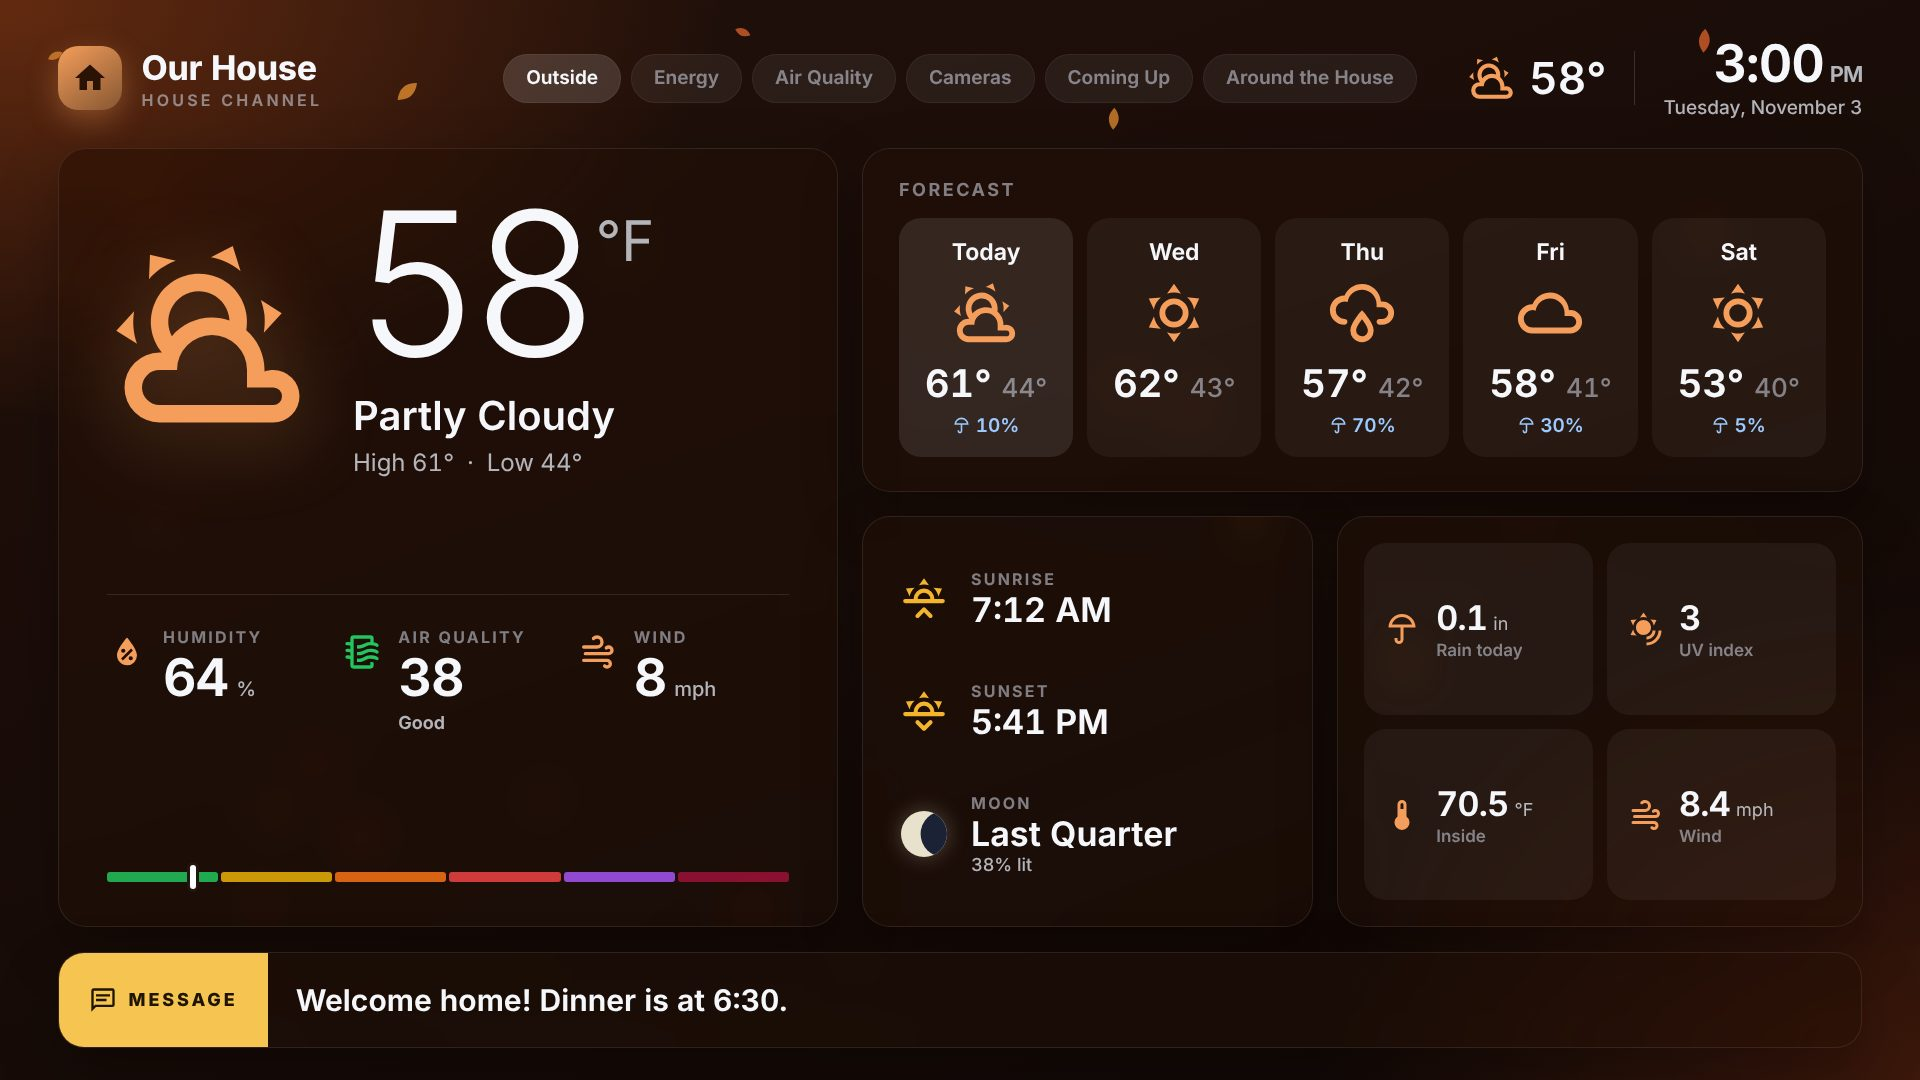
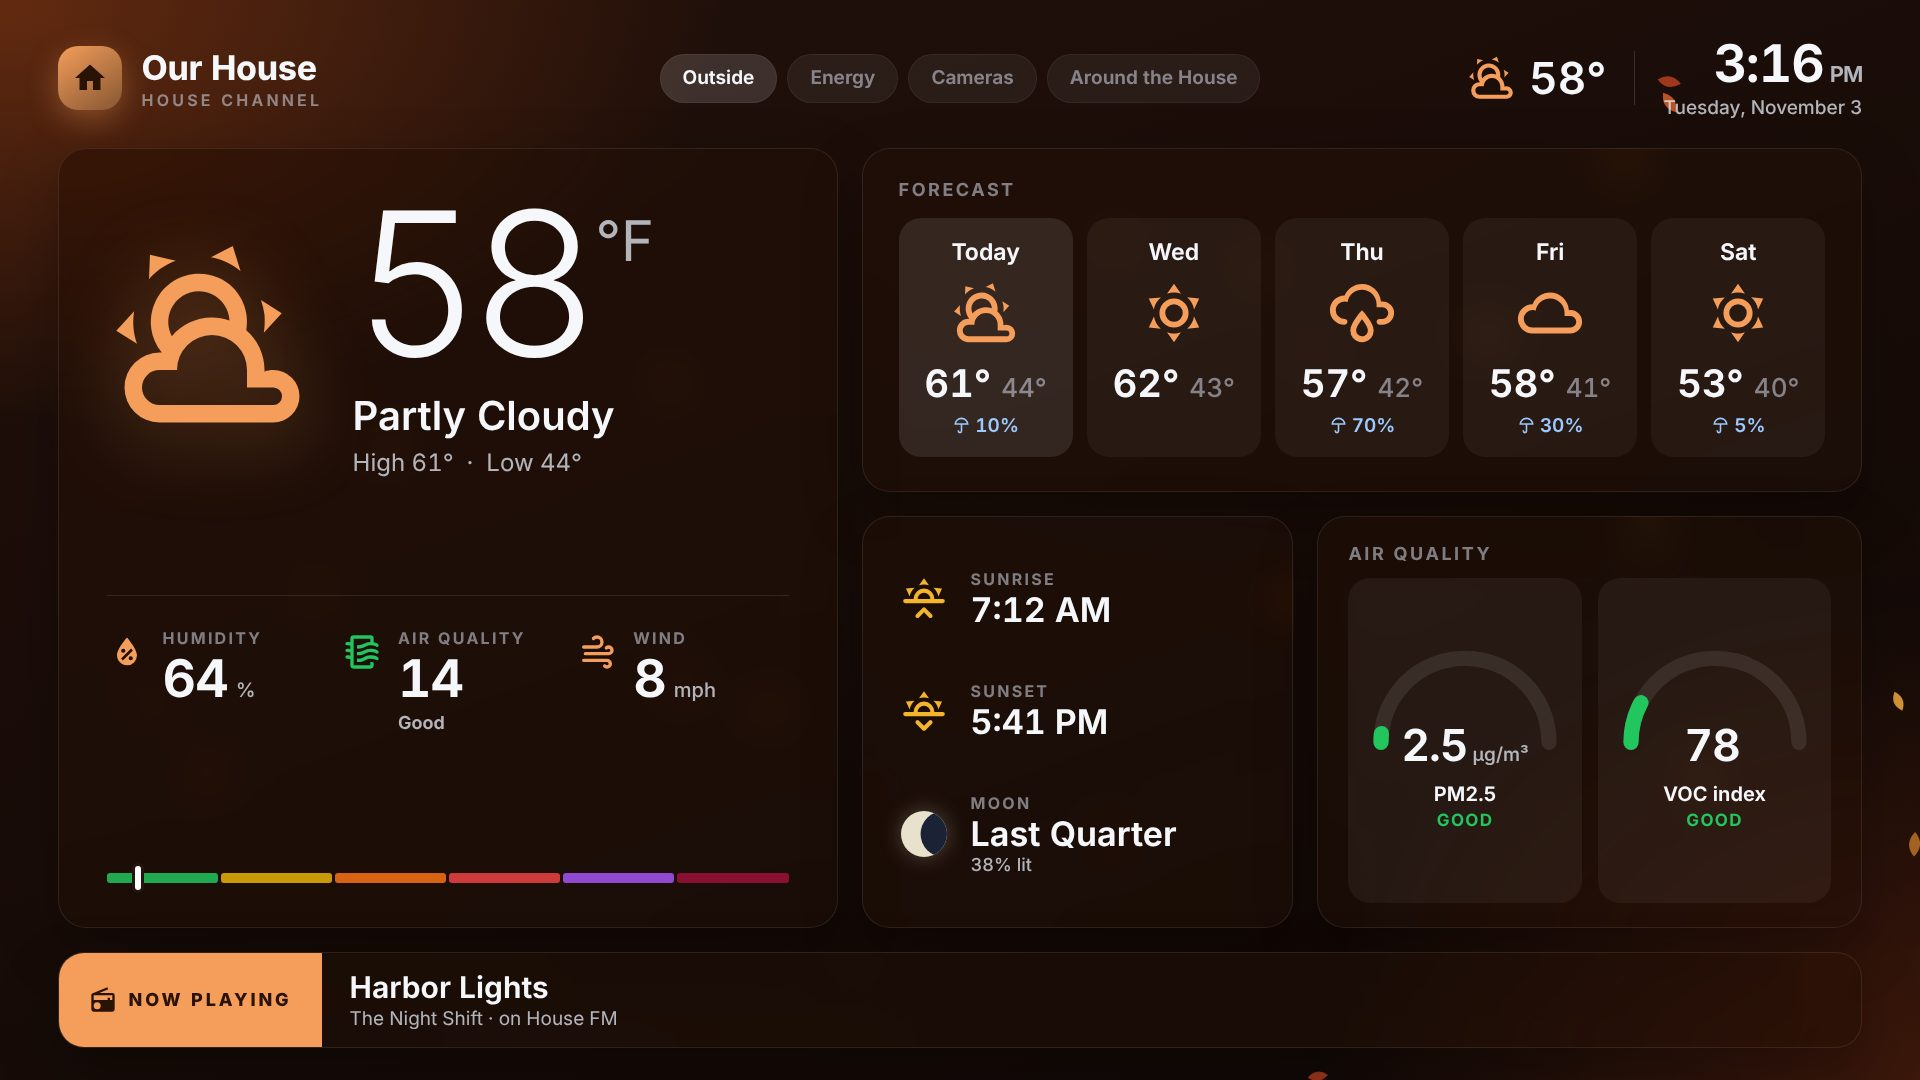
Air quality gauges on the Outside screen; doorbell event pop-ups
- Weather screen takes air_gauges (up to 4), e.g. PM2.5 and VOC index,
  reusing the air screen's gauges; the separate air screen stays optional
- Interrupts support to: changed (for event entities such as doorbells),
  ignore the jump back from unavailable after an HA restart, and accept
  optional when: conditions
- Example config and README updated

Claude-Session: https://claude.ai/code/session_01UEJktRrvhqTk3947AFYBR7

diff --git a/web/js/screens/weather.js b/web/js/screens/weather.js
@@ -1,6 +1,7 @@
 import { h, icon, setIcon, weatherIcon, weatherLabel, num, isNum, aqiInfo, moonPhase,
   fmtTime, fmtDate } from "../util.js";
 import { tileGrid } from "./tiles.js";
+import { gauge } from "./air.js";
 
 export function create(cfg, ctx) {
   const ref = {};
@@ -25,6 +26,7 @@ export function create(cfg, ctx) {
   ref.aqiMarker = h("span.aqi-marker");
   ref.aqiBar.append(ref.aqiMarker);
   const tiles = tileGrid(cfg.tiles || [], "tiles-compact");
+  const gauges = (cfg.air_gauges || []).map(gauge);
 
   const el = h("section.screen.screen-weather",
     h("div.panel.hero",
@@ -45,6 +47,8 @@ export function create(cfg, ctx) {
           h("div.sm-item", icon("sunset", "sm-icon"), h("div", h("span.metric-label", "Sunset"), ref.sunset)),
           h("div.sm-item", ref.moonIcon, h("div", h("span.metric-label", "Moon"), ref.moonName, ref.moonSub)),
         ),
+        gauges.length ? h(`div.panel.weather-air.n${gauges.length}`,
+          h("div.panel-title", "Air quality"), h("div.weather-air-grid", gauges.map((g) => g.el))) : null,
         (cfg.tiles || []).length ? h("div.panel.weather-tiles", tiles.el) : null,
       ),
     ),
@@ -112,6 +116,7 @@ export function create(cfg, ctx) {
       }));
     }
     tiles.update(c);
+    gauges.forEach((g) => g.update(c));
   }
 
   return { el, update };

diff --git a/web/css/app.css b/web/css/app.css
@@ -195,6 +195,17 @@ body.has-alert #interrupt { bottom: calc(var(--safe-y) + var(--lower-h) + var(--
   background: #1b2236; transform: translateX(var(--moon-off, 0px));
 }
 .weather-tiles { flex: 1.25; padding: 26px; }
+.weather-air { flex: 1.35; padding: 26px 30px 24px; display: flex; flex-direction: column; min-width: 0; }
+.weather-air-grid { flex: 1; display: grid; grid-auto-flow: column; grid-auto-columns: minmax(0, 1fr); gap: 16px; margin-top: 14px; }
+.weather-air.n3 .weather-air-grid, .weather-air.n4 .weather-air-grid { grid-auto-flow: row; grid-template-columns: 1fr 1fr; }
+.weather-air .gauge { padding: 10px 12px 16px; }
+.weather-air .g-svg { width: 210px; }
+.weather-air .g-value { font-size: 44px; }
+.weather-air .g-readout { margin-top: -40px; }
+.weather-air .g-name { font-size: 20px; margin-top: 10px; }
+.weather-air.n3 .g-svg, .weather-air.n4 .g-svg { width: 130px; }
+.weather-air.n3 .g-value, .weather-air.n4 .g-value { font-size: 30px; }
+.weather-air.n3 .g-readout, .weather-air.n4 .g-readout { margin-top: -26px; }
 
 /* ---------------------------------------------------------------- tiles */
 .tile-grid { display: grid; gap: 18px; grid-template-columns: repeat(min(var(--count), 4), minmax(0, 1fr)); }

diff --git a/web/js/screens/air.js b/web/js/screens/air.js
@@ -18,7 +18,7 @@ const KINDS = {
 const R = 88, CX = 110, CY = 104, LEN = Math.PI * R;
 const arc = `M${CX - R},${CY} A${R},${R} 0 0 1 ${CX + R},${CY}`;
 
-function gauge(g) {
+export function gauge(g) {
   const kind = KINDS[g.kind] || KINDS.other;
   const ref = {
     value: h("span.g-value"), unit: h("span.g-unit"), level: h("div.g-level"),

diff --git a/tests/test_core.py b/tests/test_core.py
@@ -4,6 +4,7 @@ from zoneinfo import ZoneInfo
 
 from housetv import conditions
 from housetv.config import load, normalise, watched_entities
+from housetv.hub import Hub
 from housetv.energy import stats_from_prefs, summarise
 from housetv.themes import scheduled_theme
 
@@ -14,7 +15,8 @@ def test_example_config_loads():
     cfg = load(ROOT / "config" / "config.example.yaml")
     types = [s["type"] for s in cfg["screens"]]
     assert "calendar" not in types  # disabled in the example
-    assert types[:3] == ["weather", "energy", "air"]
+    assert types[:3] == ["weather", "energy", "cameras"]
+    assert [g["kind"] for g in cfg["screens"][0]["air_gauges"]] == ["pm25", "voc"]
     ids = watched_entities(cfg)
     assert "sensor.pv_power" in ids and "sensor.outdoor_voc" in ids and "sun.sun" in ids
 
@@ -84,3 +86,18 @@ def test_energy_prefs_and_summary():
     assert out["hourly"]["home"][12] == 2.0      # 5 solar - 2 export - 1 charge
     assert out["totals"]["home"] == round(1.0 + 2.0 + 0.4 + 0.5, 2)
     assert out["totals"]["self_powered"] == round(100 * (1 - 1.0 / 3.9))
+
+
+def test_interrupt_triggers():
+    fake = type("H", (), {"states": {"sun.sun": {"state": "below_horizon", "attributes": {}}}})()
+    fires = lambda item, new, old: Hub._interrupt_fires(fake, item, {"state": new}, old and {"state": old})  # noqa: E731
+    on = {"entity": "binary_sensor.bell"}
+    assert fires(on, "on", "off")
+    assert not fires(on, "on", "on")          # no repeat while it stays on
+    assert not fires(on, "off", "on")
+    ev = {"entity": "event.bell", "to": "changed"}
+    assert fires(ev, "2026-11-03T10:00:01", "2026-11-03T09:00:00")
+    assert not fires(ev, "2026-11-03T10:00:01", "unavailable")   # HA restart
+    assert not fires(ev, "2026-11-03T10:00:01", None)
+    night_only = {**on, "when": [{"entity": "sun.sun", "state": "above_horizon"}]}
+    assert not fires(night_only, "on", "off")

diff --git a/housetv/hub.py b/housetv/hub.py
@@ -276,9 +276,23 @@ class Hub:
         for item in self.cfg["interrupts"]:
             if item["entity"] != entity_id:
                 continue
-            target = str(item.get("to", "on"))
-            if new.get("state") == target and (old or {}).get("state") != target:
+            if self._interrupt_fires(item, new, old):
                 self.show_camera(item.get("camera"), item.get("title"), item.get("duration", 30))
+
+    def _interrupt_fires(self, item: dict, new: dict, old: dict | None) -> bool:
+        new_state = new.get("state")
+        old_state = (old or {}).get("state")
+        target = str(item.get("to", "on"))
+        if target == "changed":
+            # Event entities (e.g. event.front_doorbell) change their state to a new
+            # timestamp on every press. Ignore the jump back from unavailable after
+            # a Home Assistant restart.
+            if old_state in (None, "unknown", "unavailable") or new_state in ("unknown", "unavailable"):
+                return False
+            fired = new_state != old_state
+        else:
+            fired = new_state == target and old_state != target
+        return fired and conditions.check_all(item.get("when"), self.states)
 
     def show_camera(self, camera: str | None, title: str | None = None, duration: float = 30) -> None:
         duration = max(5, min(600, float(duration or 30)))

diff --git a/housetv/config.py b/housetv/config.py
@@ -136,6 +136,8 @@ def normalise(raw: dict) -> dict:
         s["show_when"] = as_list(s.get("show_when"))
         if stype == "cameras":
             s["cameras"] = normalise_entity_list(s.get("cameras"))[:4]
+        if stype == "weather":
+            s["air_gauges"] = normalise_entity_list(s.get("air_gauges"))[:4]
         if stype == "air":
             s["gauges"] = normalise_entity_list(s.get("gauges"))[:6]
         if stype == "calendar":
@@ -182,7 +184,7 @@ def watched_entities(cfg: dict) -> set[str]:
             if isinstance(cond, dict):
                 add(cond.get("entity"))
     for s in cfg["screens"]:
-        for t in s["tiles"] + s.get("gauges", []):
+        for t in s["tiles"] + s.get("gauges", []) + s.get("air_gauges", []):
             add(t["entity"])
         for cond in s["show_when"]:
             if isinstance(cond, dict):

diff --git a/README.md b/README.md
@@ -4,10 +4,11 @@ A "house channel" for your TVs, like the ship channel on a cruise. A Raspberry
 Pi plugs into HDMI (or a QAM modulator) and rotates through screens of live
 Home Assistant data:
 
-- **Outside:** current conditions, forecast, AQI, sunrise/sunset, moon phase
+- **Outside:** current conditions, forecast, sunrise/sunset, moon phase, and air quality gauges
+  (e.g. PM2.5 and VOC from a local monitor)
 - **Energy:** live solar / battery / grid / home power flow, plus today's totals and hourly
   chart read straight from your **Home Assistant Energy dashboard**
-- **Air quality:** gauges for PM2.5 / PM10 / PM1 / PM0.3 / VOC / NOx / CO₂ from a local monitor
+- **Air quality** (optional, more detail): up to six gauges for PM2.5 / PM10 / PM1 / PM0.3 / VOC / NOx / CO₂
 - **Cameras:** up to four live feeds
 - **Calendar** (optional) and a free-form **tiles** screen for anything else
 
@@ -122,7 +123,7 @@ highlights:
 - **Energy:** today's kWh totals and the hourly chart come from the Energy dashboard
   automatically. For the live flow diagram, list your instantaneous power sensors under `power:`.
   Use `battery_invert` / `grid_invert` if your sensors use the opposite sign convention.
-- **Air quality:** a `type: air` screen with up to 6 gauges. `kind:` (pm25, pm10, pm1, pm03, voc,
+- **Air quality:** `air_gauges:` on the Outside screen (up to 4), or a separate `type: air` screen with up to 6 gauges. `kind:` (pm25, pm10, pm1, pm03, voc,
   nox, co2) picks the scale and health bands, and the band name is printed under each gauge.
 - **Cameras:** for best results, point at your cameras' **sub-streams**. With the Generic Camera
   integration, add a second camera entity in HA whose stream URL is the sub-stream.
@@ -182,8 +183,14 @@ automation:
           value: "Dinner in 15 minutes!"
 ```
 
-(For simple cases, the `interrupts:` section in `config.yaml` does the doorbell pop-up without an
-automation.)
+For simple cases, the `interrupts:` section in `config.yaml` does the doorbell pop-up without an
+automation. It fires when the entity *changes to* the `to:` state (default `on`). Use
+`to: changed` for event entities such as `event.front_doorbell`, which get a new timestamp on every
+press. Publishing `{"camera": "none"}` to `house_tv/show_camera` dismisses a pop-up early.
+
+**Alerts** (`alerts:` in `config.yaml`) show a scrolling banner for as long as the entity is active
+(on, a non-zero number, or any text other than off/unknown/unavailable), and disappear when it
+isn't. The text comes from `text:`, an attribute (`attribute:`), or the entity's name.
 
 ## Troubleshooting
 
